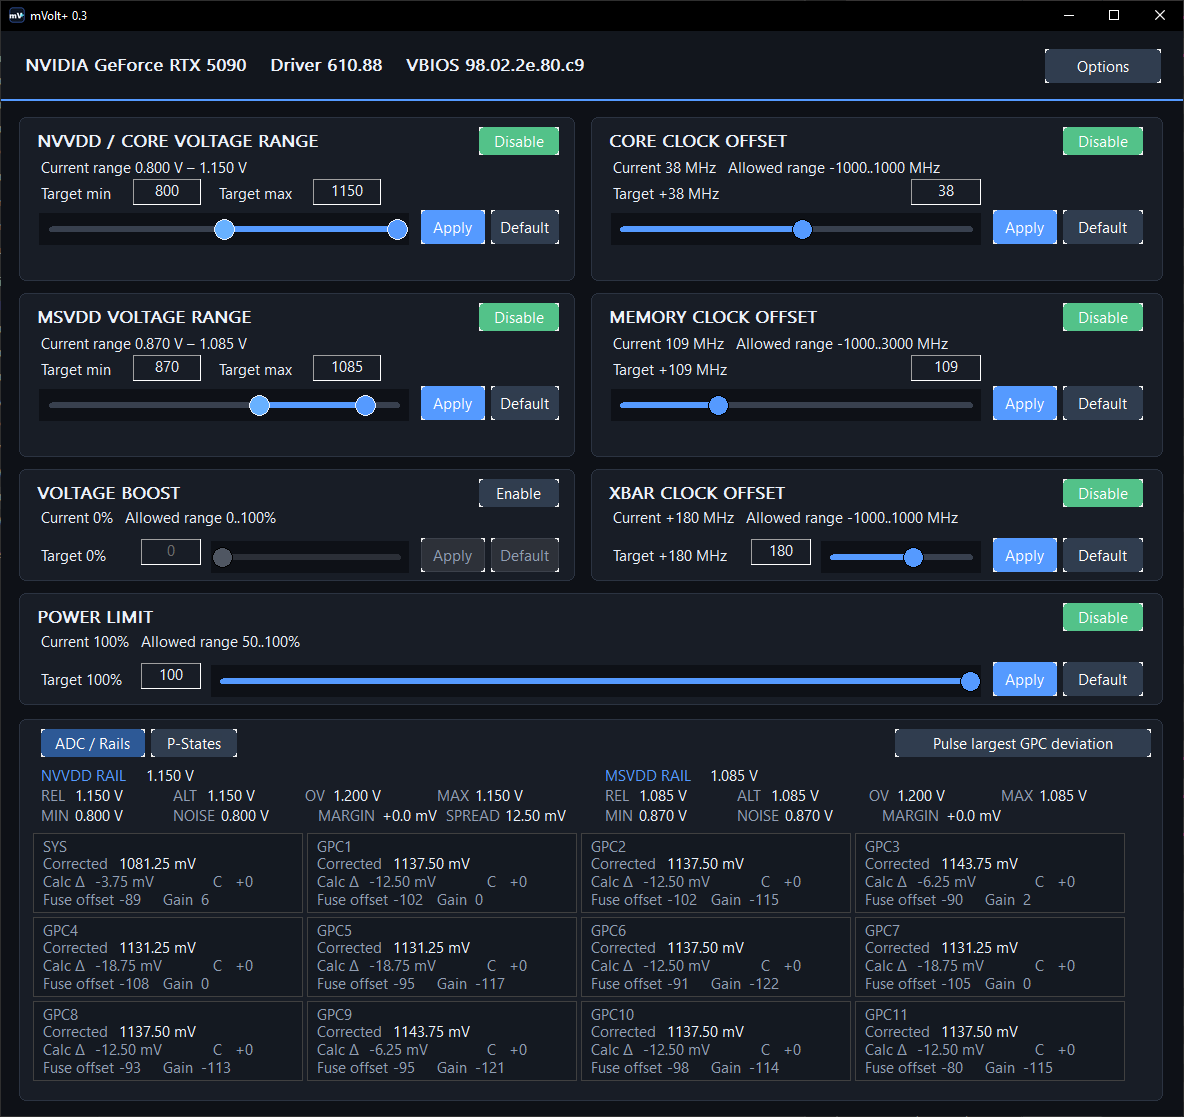
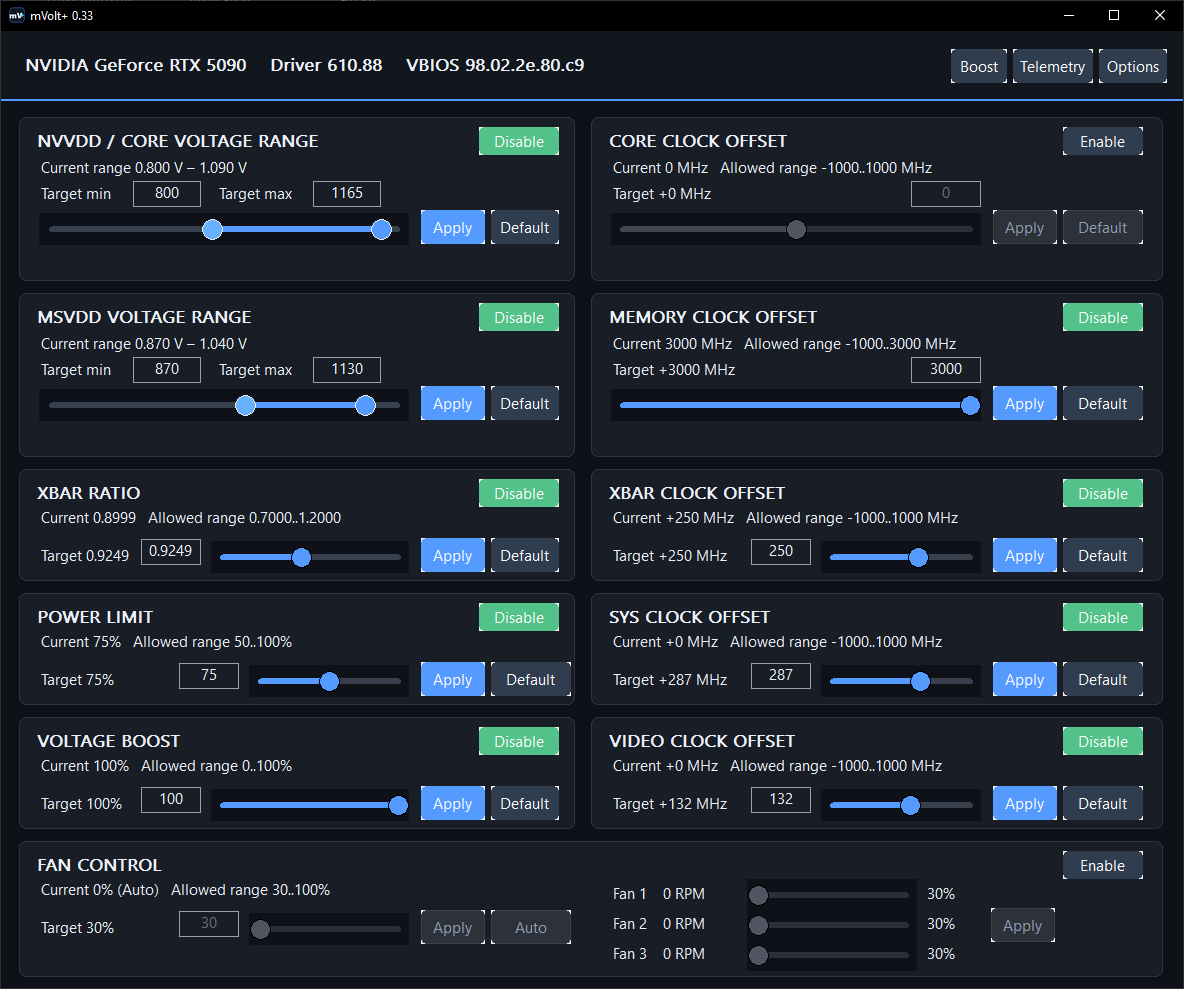
update readme and assets

Changed region(s): [[0.0, 0.0, 1.0, 1.0]]

diff --git a/README.md b/README.md
@@ -5,19 +5,23 @@ Windows tuning utility for Blackwell GPUs.
 ## Download
 
 Download the latest `mVolt+.exe` from [GitHub Releases](../../releases/latest) 
-or click here: [mVolt+.exe](https://github.com/b00nz/mVolt/releases/download/v0.32/mVolt+.exe)
+or click here: [mVolt+.exe](https://github.com/b00nz/mVolt/releases/download/v0.33/mVolt+.exe)
 
-Current release: **0.32**
+Current release: **0.33**
 
 ## Features
 
 - NVVDD/MSVDD minimum and maximum voltage control
-- XBAR clock control
-- Core and memory clock offsets, power limit and Voltage Boost
+- XBAR clock control and adjustable GPC-to-XBAR propagation ratio
+- Core, memory, SYS and video clock offsets
+- Power limit and Voltage Boost
+- Linked and per-fan control with live RPM monitoring
 - V/F curve editing with regional offsets and flattening
-- Named tuning profiles with full-setting restore and optional automatic
-  application at Windows logon
-- Live rail, ADC and P-state telemetry
+- Named tuning profiles for every control, with full-setting restore and
+  optional automatic application at Windows logon
+- Multi-GPU selection with per-GPU profiles and startup settings
+- Live clock, rail, ADC, power and P-state telemetry in separate tabs
+- Command-line status, tuning and profile application
 
 ## Compatibility
 
@@ -26,6 +30,8 @@ Tested on GeForce RTX 5090, RTX 5080, and RTX 5070 Ti.
 ## Screenshots
 
 ![mVolt+ dashboard](assets/mvolt-dashboard.png)
+
+![mVolt+ telemetry](assets/mvolt-telemetry.png)
 
 ![mVolt+ V/F curve editor](assets/mvolt-vf-curve-editor.png)
 
